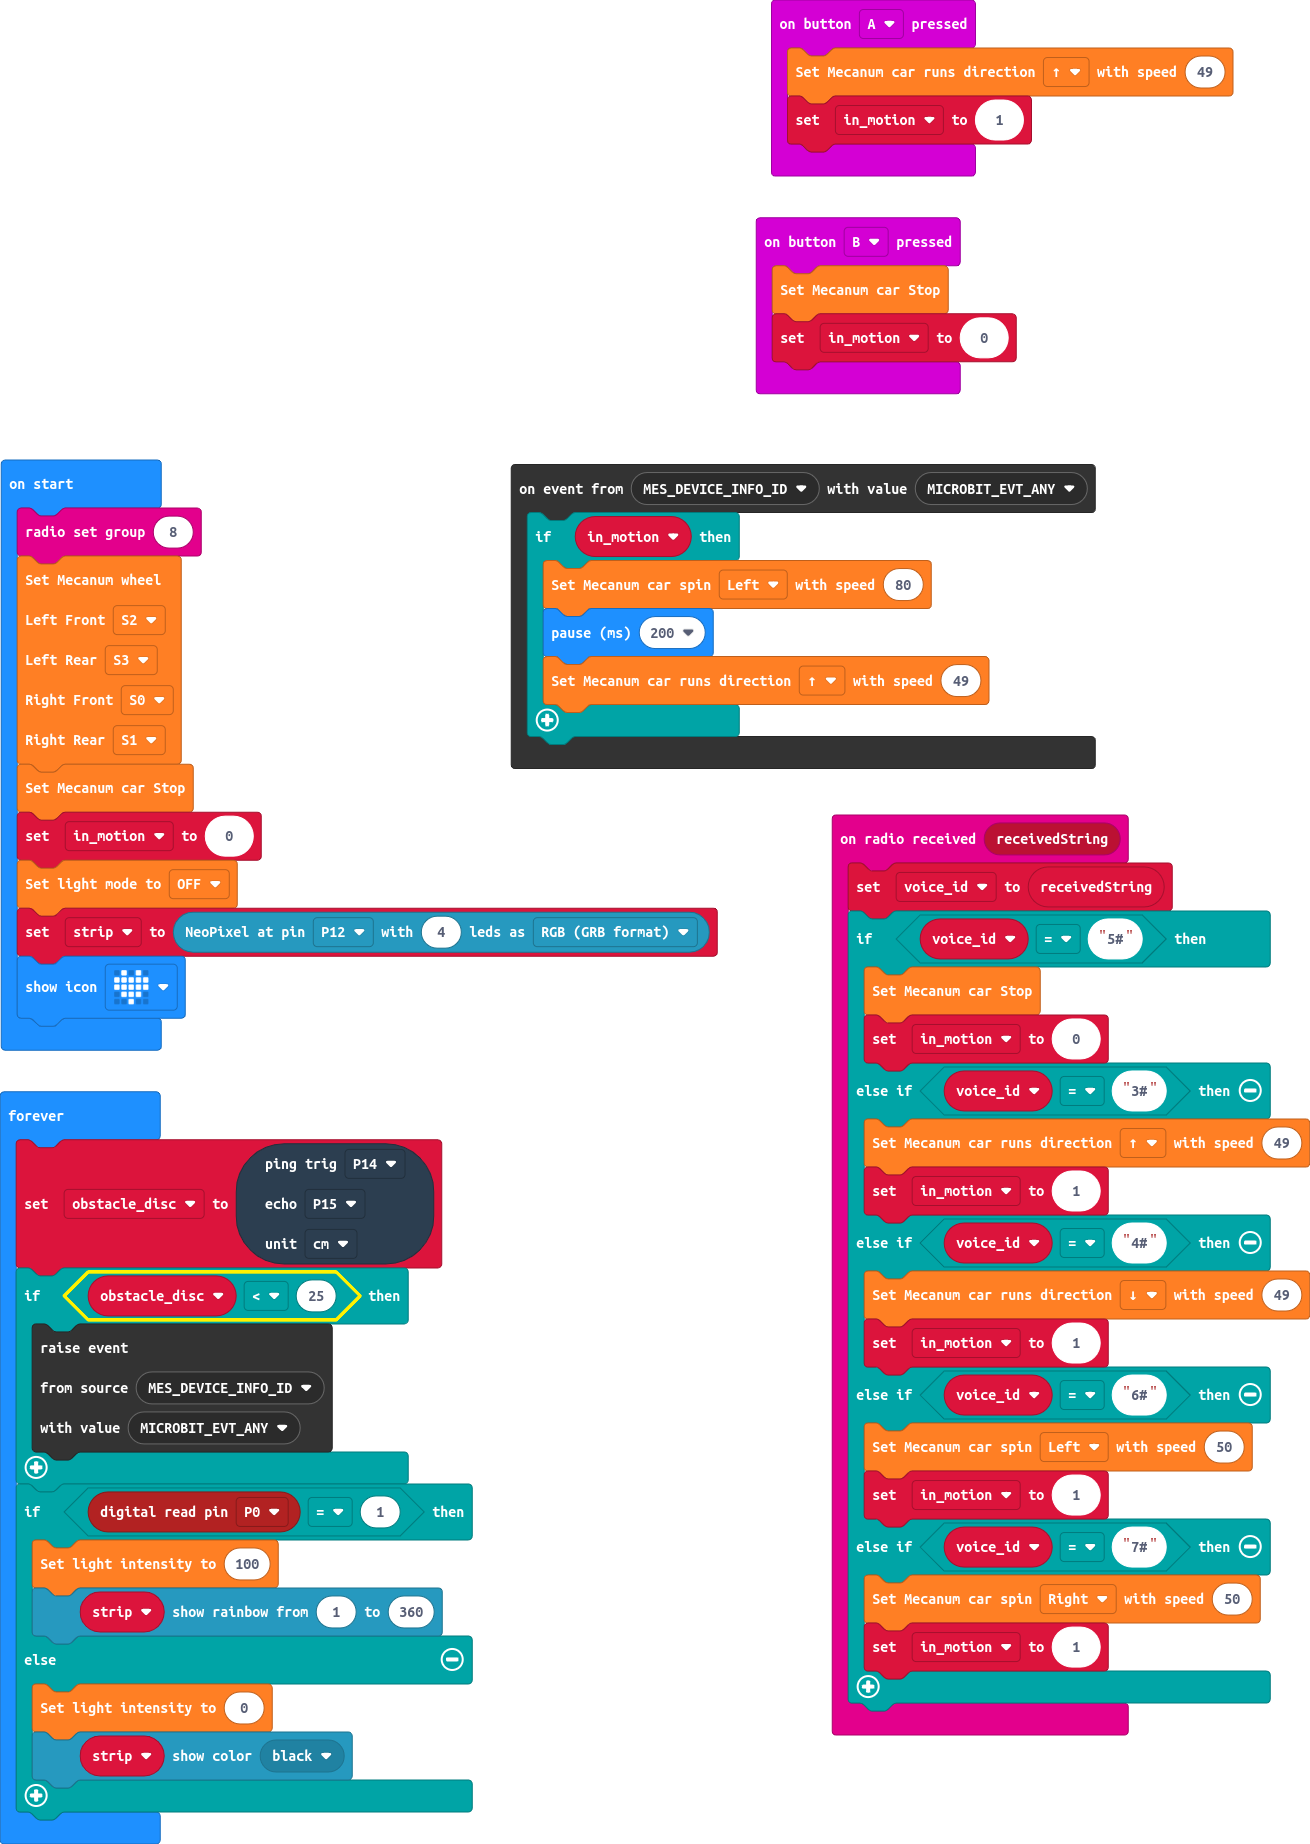
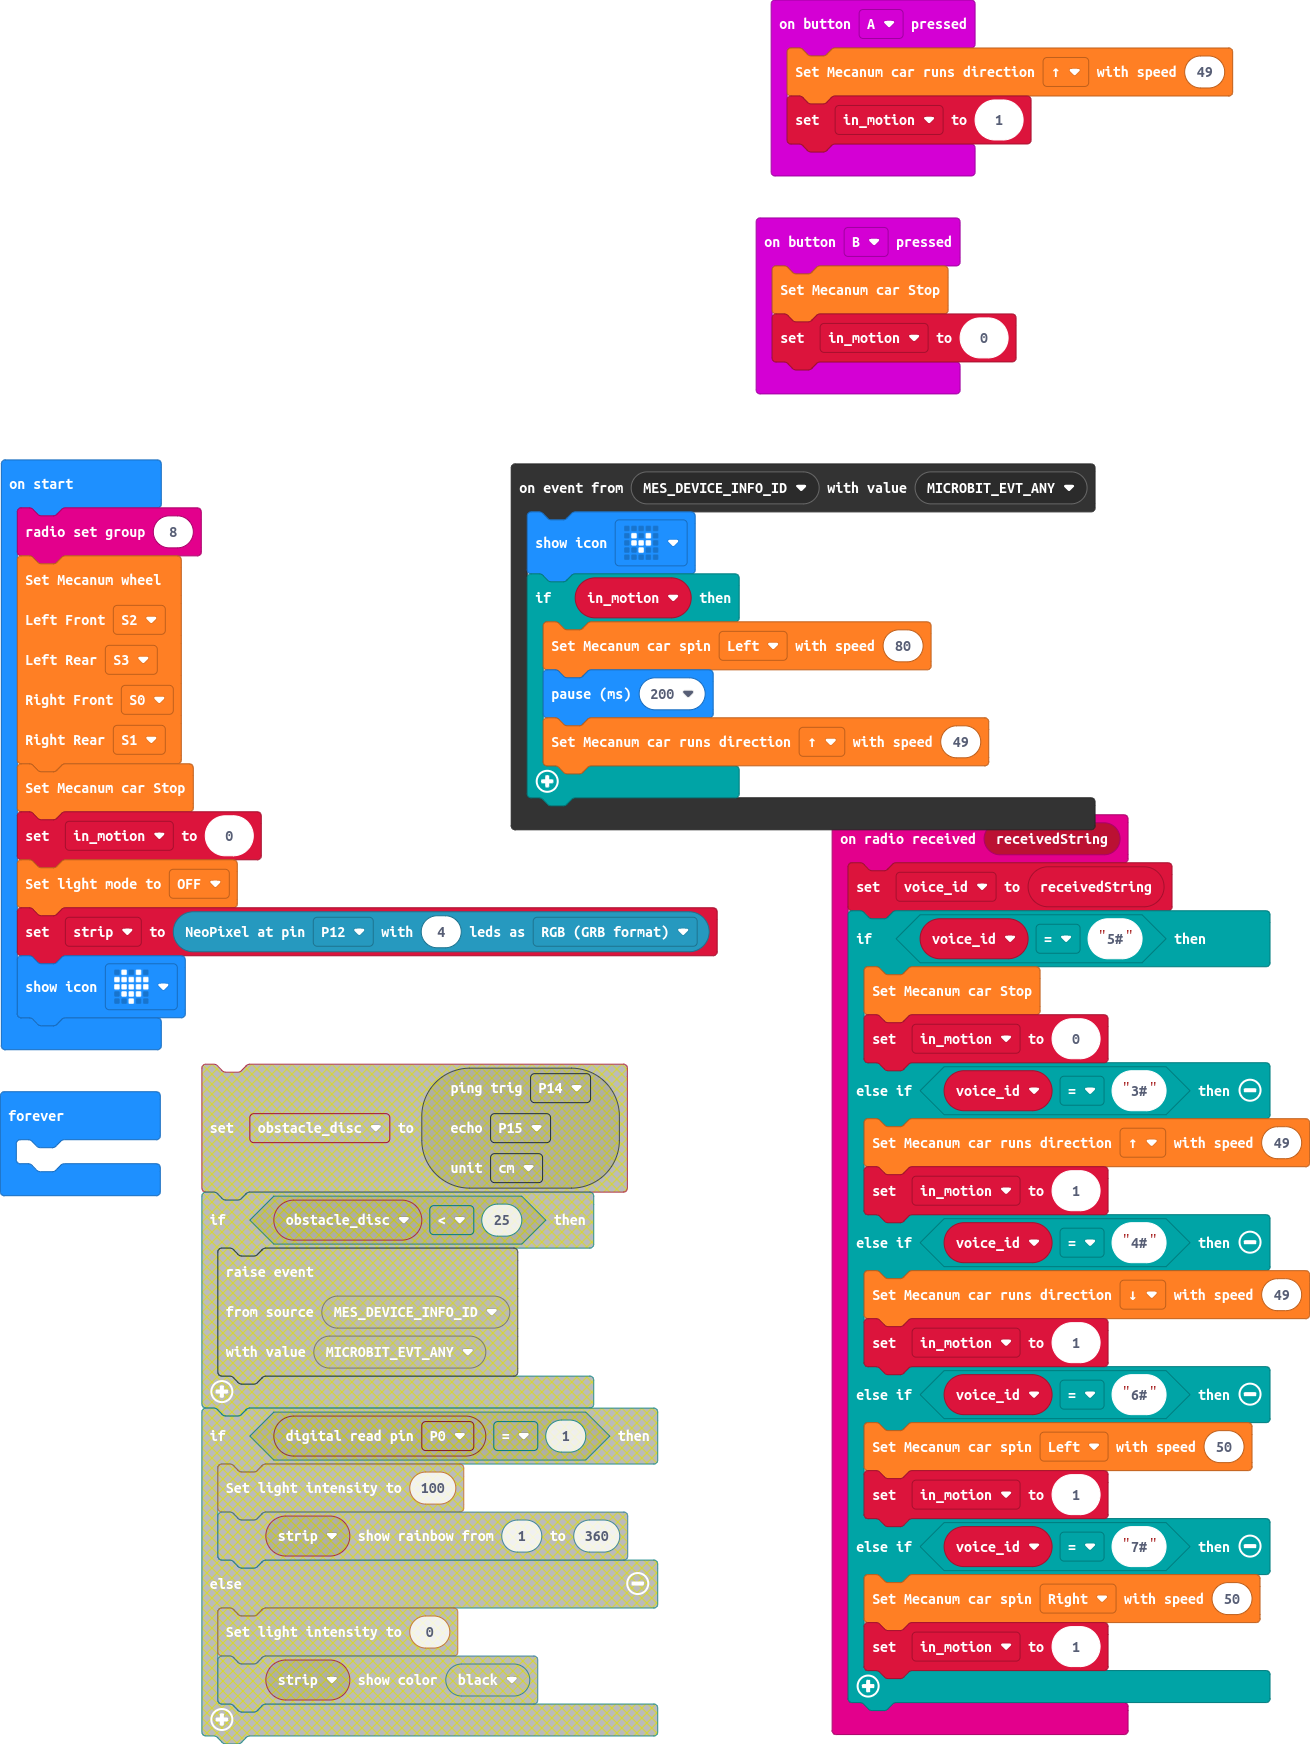
Update main.blocks, main.ts

diff --git a/main.ts b/main.ts
@@ -1,4 +1,5 @@
 control.onEvent(EventBusSource.MES_DEVICE_INFO_ID, EventBusValue.MICROBIT_EVT_ANY, function () {
+    basic.showIcon(IconNames.SmallHeart)
     if (in_motion) {
         wuKong.mecanumSpin(wuKong.TurnList.Left, 80)
         basic.pause(200)
@@ -32,7 +33,6 @@ input.onButtonPressed(Button.B, function () {
     wuKong.mecanumStop()
     in_motion = 0
 })
-let obstacle_disc = 0
 let voice_id = ""
 let in_motion = 0
 radio.setGroup(8)
@@ -48,22 +48,5 @@ wuKong.setLightMode(wuKong.LightMode.OFF)
 let strip = neopixel.create(DigitalPin.P12, 4, NeoPixelMode.RGB)
 basic.showIcon(IconNames.Heart)
 basic.forever(function () {
-    obstacle_disc = sonar.ping(
-    DigitalPin.P14,
-    DigitalPin.P15,
-    PingUnit.Centimeters
-    )
-    if (obstacle_disc < 25) {
-        control.raiseEvent(
-        EventBusSource.MES_DEVICE_INFO_ID,
-        EventBusValue.MICROBIT_EVT_ANY
-        )
-    }
-    if (pins.digitalReadPin(DigitalPin.P0) == 1) {
-        wuKong.lightIntensity(100)
-        strip.showRainbow(1, 360)
-    } else {
-        wuKong.lightIntensity(0)
-        strip.showColor(neopixel.colors(NeoPixelColors.Black))
-    }
+	
 })
